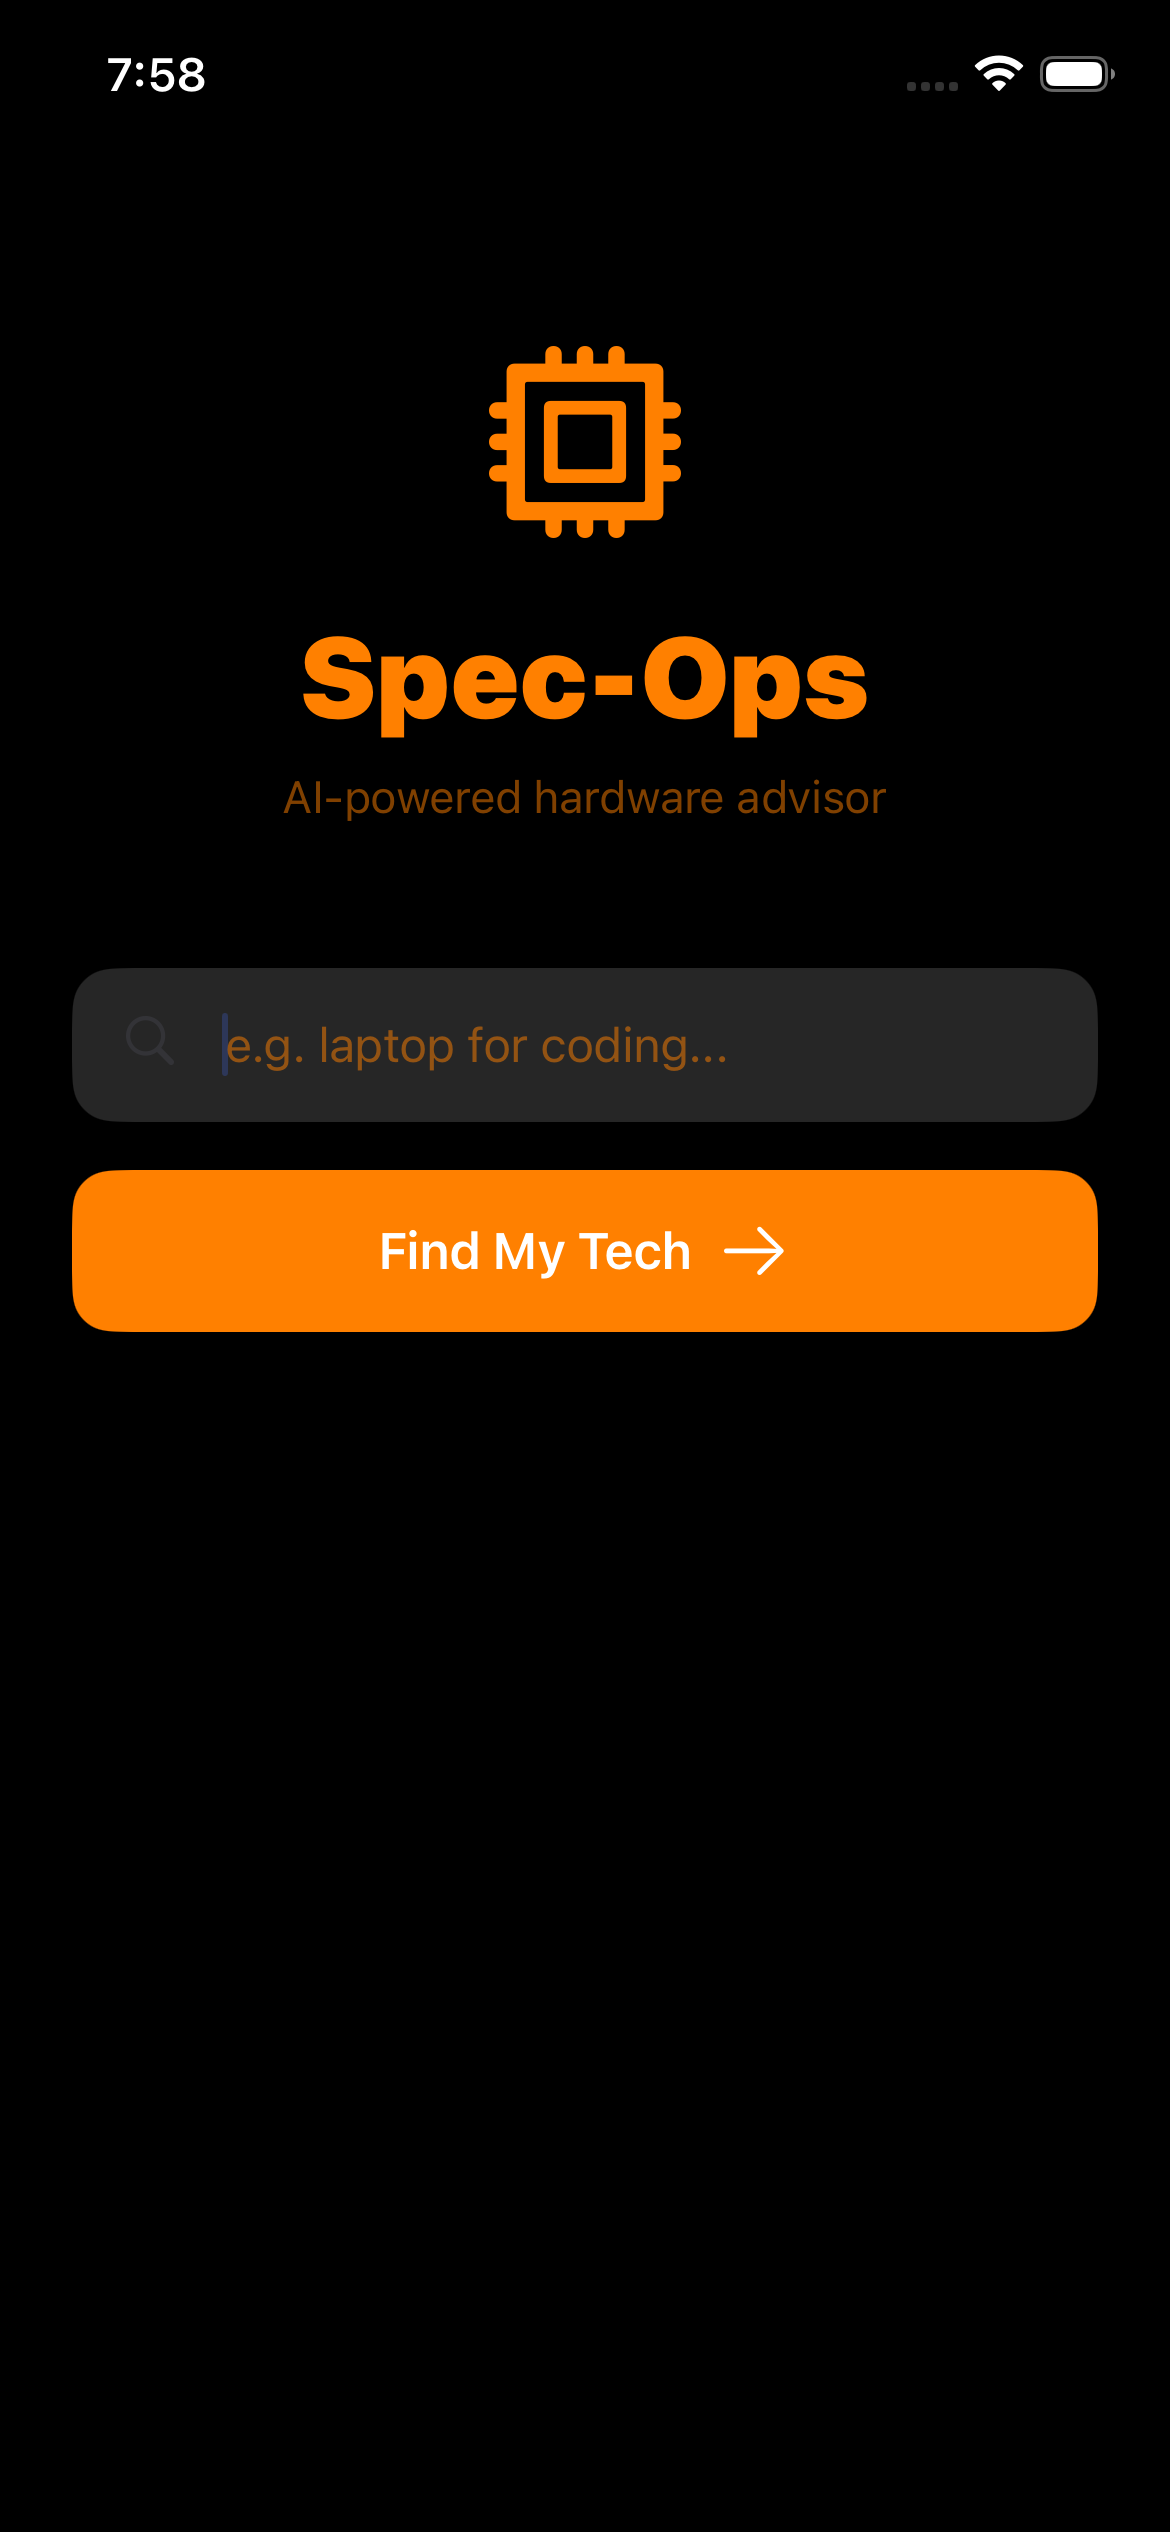
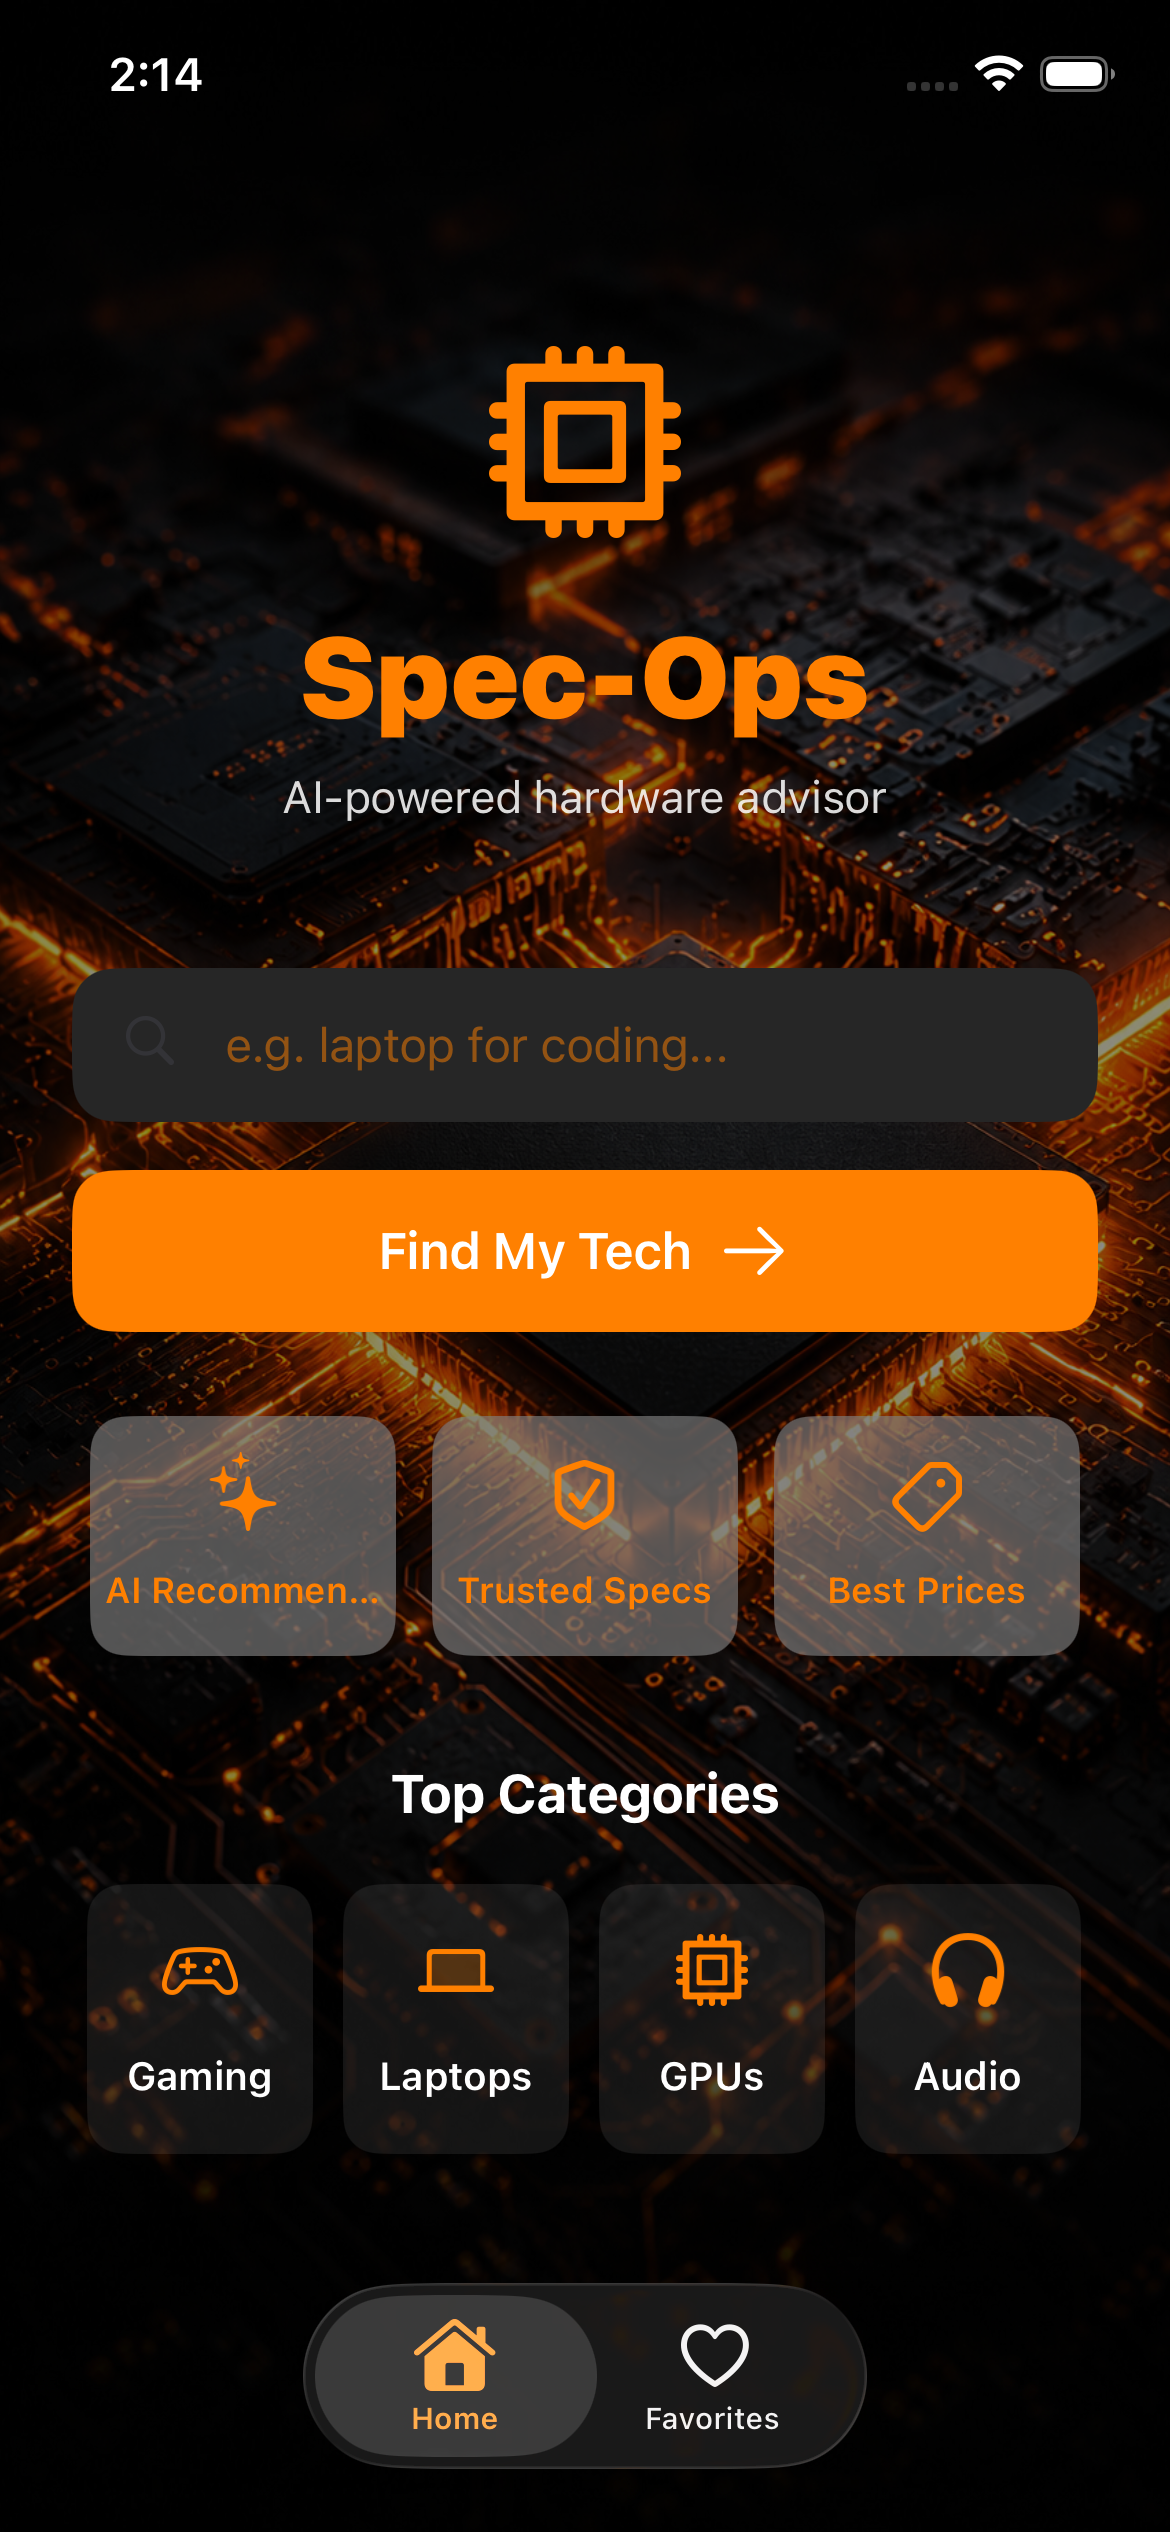
Add project documentation
- Add comprehensive README with features, architecture, and setup guide
- Document Secret.plist setup for API keys
- Add app screenshots (Home, Results, Detail, Favorites, Compare)"

diff --git a/Spec-Ops/View/HomeViewController.swift b/Spec-Ops/View/HomeViewController.swift
@@ -231,7 +231,7 @@ nonisolated enum HomeItem: Hashable {
  
         snapshot.appendSections([.features])
         snapshot.appendItems([
-            .feature(icon: "sparkles", title: "AI Recommendations"),
+            .feature(icon: "sparkles", title: "AI Picks"),
             .feature(icon: "checkmark.shield", title: "Trusted Specs"),
             .feature(icon: "tag", title: "Best Prices")
         ], toSection: .features)

diff --git a/README.md b/README.md
@@ -1,117 +1,102 @@
 # Spec-Ops — AI-Powered Hardware Advisor
 
-> *Tell me what you need. I'll find the right tech for you.*
+Spec-Ops is an iOS app that helps users find the right tech hardware through natural-language search. Describe what you need ("a laptop for coding", "best value GPU") and an AI model returns tailored product recommendations with ratings, match scores, key features, specs, and pros & cons. Users can favorite products for later and compare several side by side.
 
----
-
-## Screenshots
-
-<p float="left">
-  <img src="Screenshots/Home.png" width="30%" />
-  <img src="Screenshots/Results.png" width="30%" />
-  <img src="Screenshots/Detail.png" width="30%" />
-</p>
-
----
-
-## What is Spec-Ops?
-
-Spec-Ops is a UIKit app that acts as your personal tech hardware advisor. You describe what you need in plain language — "laptop for video editing under €1500" — and the app uses an AI model to generate tailored product recommendations with European pricing, complete with product images pulled from Unsplash.
-
-Built entirely in UIKit without Storyboards — all layouts are done programmatically using Auto Layout.
+Built entirely in **UIKit, programmatically (no Storyboards)**, as a portfolio project focused on modern iOS patterns.
 
 ---
 
 ## Features
 
-- **AI Recommendations** — powered by Groq (Llama 3.3 70B) to generate hardware suggestions based on natural language input
-- **European Pricing** — all recommendations come with EUR pricing tailored for European customers
-- **Product Images** — each product detail page fetches a relevant image from the Unsplash API
-- **Programmatic UI** — zero Storyboards, all Auto Layout constraints written in code
-- **UICollectionView** — grid layout built with `CompositionalLayout` and `DiffableDataSource`
-- **MVVM Architecture** — `ResultsViewModel` handles all data fetching and state, keeping ViewControllers clean
-- **Async/Await** — all network calls use modern Swift concurrency
+- **AI-powered search** — natural-language queries return structured product recommendations via the Groq API (Llama 3.3).
+- **Rich product details** — each result includes rating, review count, AI match score, badges (Best Overall / Best Value / etc.), key features, specifications, and honest pros & cons.
+- **Product images** — fetched dynamically from the Unsplash API with in-memory caching.
+- **Favorites** — save products locally; persisted across launches with `UserDefaults` (Codable).
+- **Compare** — select up to 3 products and view them side by side in a comparison table.
+- **Curated home** — hero search, feature highlights, and tappable top categories.
+- **Tab bar navigation** — Home and Favorites tabs, each with its own navigation stack.
 
 ---
 
-## Tech Stack
+## Screenshots
 
-| Area | Technology |
-|---|---|
-| UI | UIKit (programmatic, no Storyboards) |
-| Architecture | MVVM |
-| AI | Groq API (Llama 3.3 70B) |
-| Images | Unsplash API |
-| Networking | URLSession + async/await |
-| Layout | Auto Layout + CompositionalLayout |
-| Data | DiffableDataSource |
+| Home | Results | Detail |
+|------|---------|--------|
+| ![Home](Screenshots/Home.png) | ![Results](Screenshots/Resaults.png) | ![Detail](Screenshots/Details.png) |
+
+| Favorites | Compare |
+|-----------|---------|
+| ![Favorites](Screenshots/Favourites.png) | ![Compare](Screenshots/Compare.png) |
 
 ---
 
-## Project Structure
+## Architecture & Tech
+
+- **UIKit, 100% programmatic** — Auto Layout in code, no Storyboards or XIBs.
+- **MVVM** — view models drive the results flow, keeping view controllers focused on UI.
+- **Diffable Data Source + Compositional Layout** — for the multi-section Home and the results grid.
+- **async/await** — modern Swift concurrency for all networking.
+- **Codable** — for decoding API responses and persisting favorites.
+- **Singletons for services** — `NetworkManager`, `ImageLoader`, `FavoritesManager`, `CompareManager`.
+- **Unit tests** — with the Swift Testing framework.
+
+### Project structure
 
 ```
 Spec-Ops/
-├── App/
-│   ├── AppDelegate.swift
-│   └── SceneDelegate.swift
-├── Model/
-│   ├── Product.swift
-│   ├── OpenAIRequest.swift
-│   └── UnsplashModels.swift
-├── View/
-│   ├── HomeViewController.swift
-│   ├── ResultsViewController.swift
-│   ├── DetailViewController.swift
-│   └── ProductCollectionCell.swift
-├── ViewModel/
-│   └── ResultsViewModel.swift
-└── Service/
-    ├── NetworkManager.swift
-    └── Constants.swift
+├── Apps/         AppDelegate, SceneDelegate
+├── Model/        Product, ProductBadge, API request/response models
+├── Service/      NetworkManager, ImageLoader, FavoritesManager,
+│                 CompareManager, Secrets, Constants
+├── View/         View controllers + custom cells/views
+└── ViewModel/    ResultsViewModel
 ```
 
 ---
 
-## Architecture Decisions
+## Setup
 
-**Why UIKit programmatically?**
-Storyboards hide what's actually happening under the hood. Writing constraints in code forces you to understand how Auto Layout works — and makes the code easier to review, diff, and maintain in a team.
+This project uses two APIs. You need your own free API keys to run it.
 
-**Why MVVM in UIKit?**
-`ResultsViewController` doesn't know how products are fetched — it just reacts to `onDataUpdated` and `onError` closures from `ResultsViewModel`. This separation makes the ViewController lightweight and the ViewModel independently testable.
+### 1. Get API keys
 
-**Why Groq?**
-Groq runs Llama 3.3 70B with very fast inference — response times are noticeably quicker than alternatives, which matters for a recommendation flow where the user is waiting.
+- **Groq** (for AI recommendations) — create a free key at [console.groq.com](https://console.groq.com).
+- **Unsplash** (for product images) — register an app at [unsplash.com/developers](https://unsplash.com/developers) and use the Access Key.
 
-**Why DiffableDataSource?**
-It handles cell updates with automatic diffing and smooth animations — no manual `reloadData()` calls or index path management.
+### 2. Add a `Secret.plist`
+
+Create a file named **`Secret.plist`** in the `Spec-Ops/` source folder with this content, and add it to the app target:
+
+```xml
+<?xml version="1.0" encoding="UTF-8"?>
+<!DOCTYPE plist PUBLIC "-//Apple//DTD PLIST 1.0//EN" "http://www.apple.com/DTDs/PropertyList-1.0.dtd">
+<plist version="1.0">
+<dict>
+    <key>GROQ_API_KEY</key>
+    <string>your_groq_key_here</string>
+    <key>UNSPLASH_API_KEY</key>
+    <string>your_unsplash_key_here</string>
+</dict>
+</plist>
+```
+
+> `Secret.plist` is listed in `.gitignore` and is never committed, so your keys stay private.
+
+### 3. Build & run
+
+Open `Spec-Ops.xcodeproj` in Xcode and run on a simulator or device (iOS 17+).
 
 ---
 
-## How It Works
+## Requirements
 
-1. User types a natural language query — e.g. "gaming laptop under €1200"
-2. `NetworkManager` sends the query to the Groq API with a system prompt that enforces JSON output
-3. The AI responds with a structured array of products (name, category, price, description)
-4. `ResultsViewModel` parses the response and notifies the ViewController via closure
-5. `DiffableDataSource` applies a snapshot and animates the cells in
-6. Tapping a product pushes `DetailViewController`, which fetches a relevant image from Unsplash
-
----
-
-## What I Learned Building This
-
-- **Programmatic Auto Layout** — no Storyboards, every constraint written manually. After fighting with ambiguous constraints for a while, I now understand exactly how the layout engine resolves conflicts.
-- **DiffableDataSource** — much cleaner than traditional DataSource. Once you understand snapshots, you never want to go back to `reloadData()`.
-- **Prompting for structured output** — getting an LLM to return clean JSON every time requires a precise system prompt. Small wording changes have a big impact on reliability.
-- **MVVM in UIKit with closures** — without `@Published` and `ObservableObject`, you wire ViewModels to ViewControllers manually via callbacks. It's more explicit — and actually clearer once you get used to it.
+- Xcode 16+
+- iOS 17+
+- A Groq API key and an Unsplash API key (free)
 
 ---
 
 ## Author
 
-**Dimitris Polyzos** — Self-taught iOS Developer, Athens, Greece
-
-- GitHub: [github.com/dimitrispolyzos99](https://github.com/dimitrispolyzos99)
-- LinkedIn: [linkedin.com/in/dimitris-polyzos-106373259](https://linkedin.com/in/dimitris-polyzos-106373259)
+**Dimitris Polyzos** — iOS Developer
+[GitHub](https://github.com/dimitrispolyzos99) · [LinkedIn](https://www.linkedin.com/in/dimitris-polyzos-106373259)
